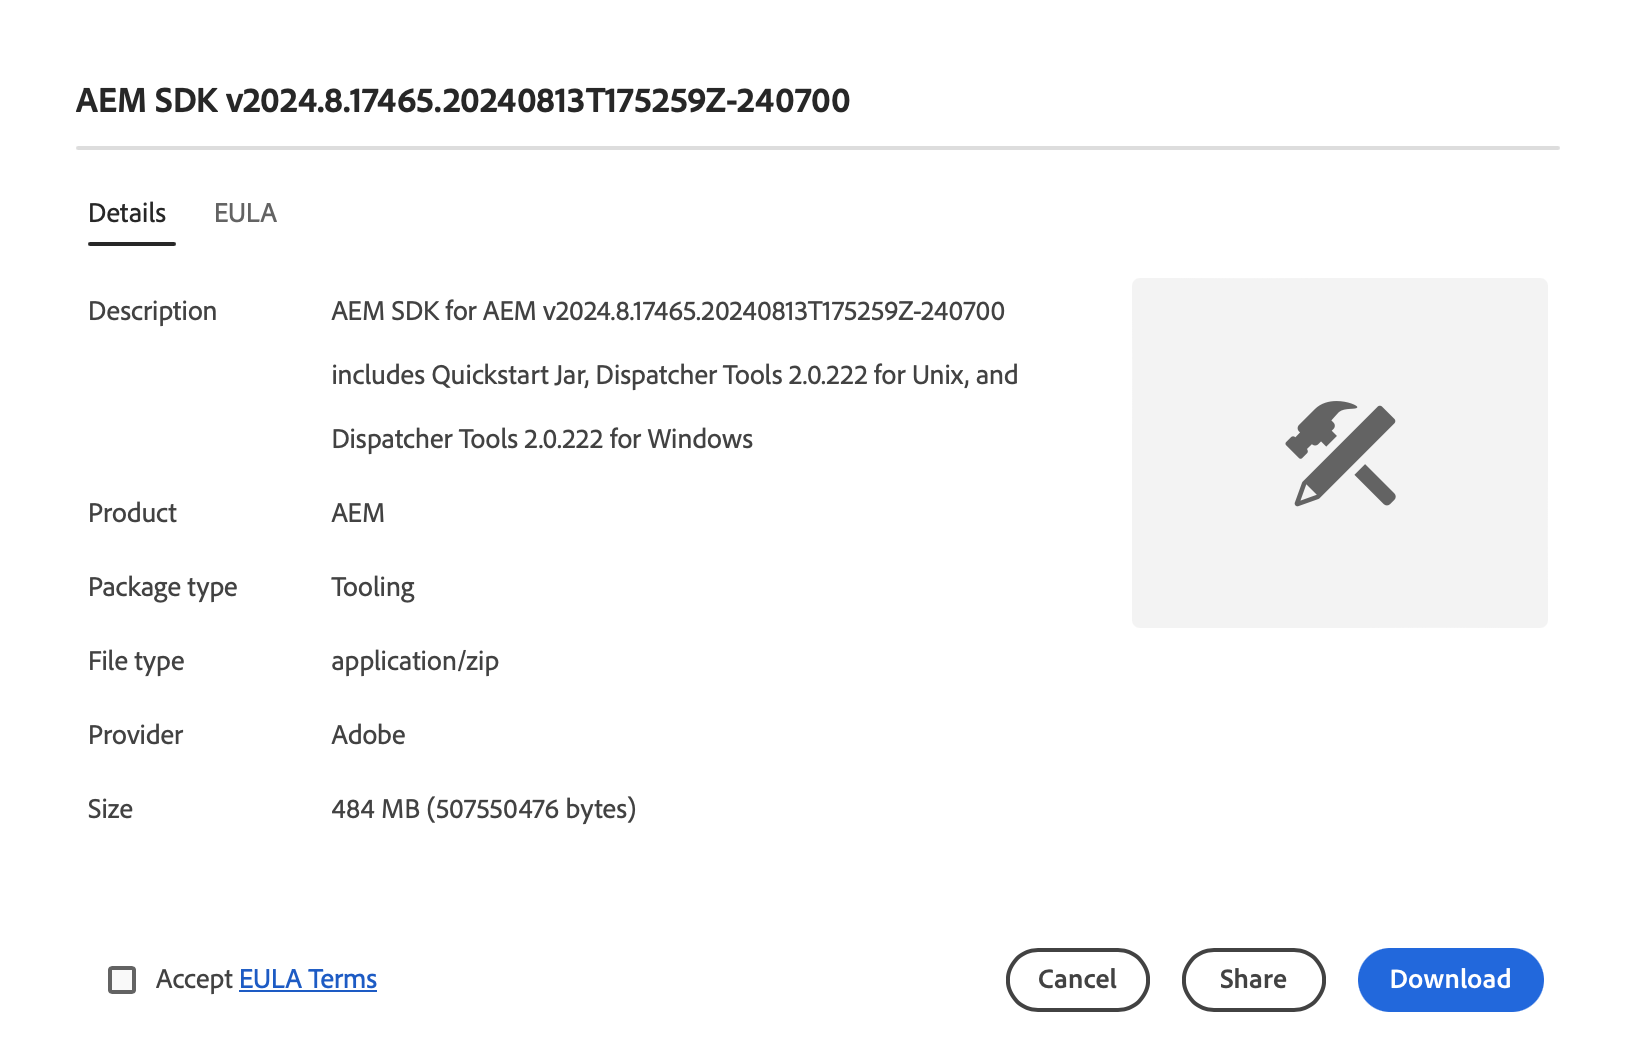
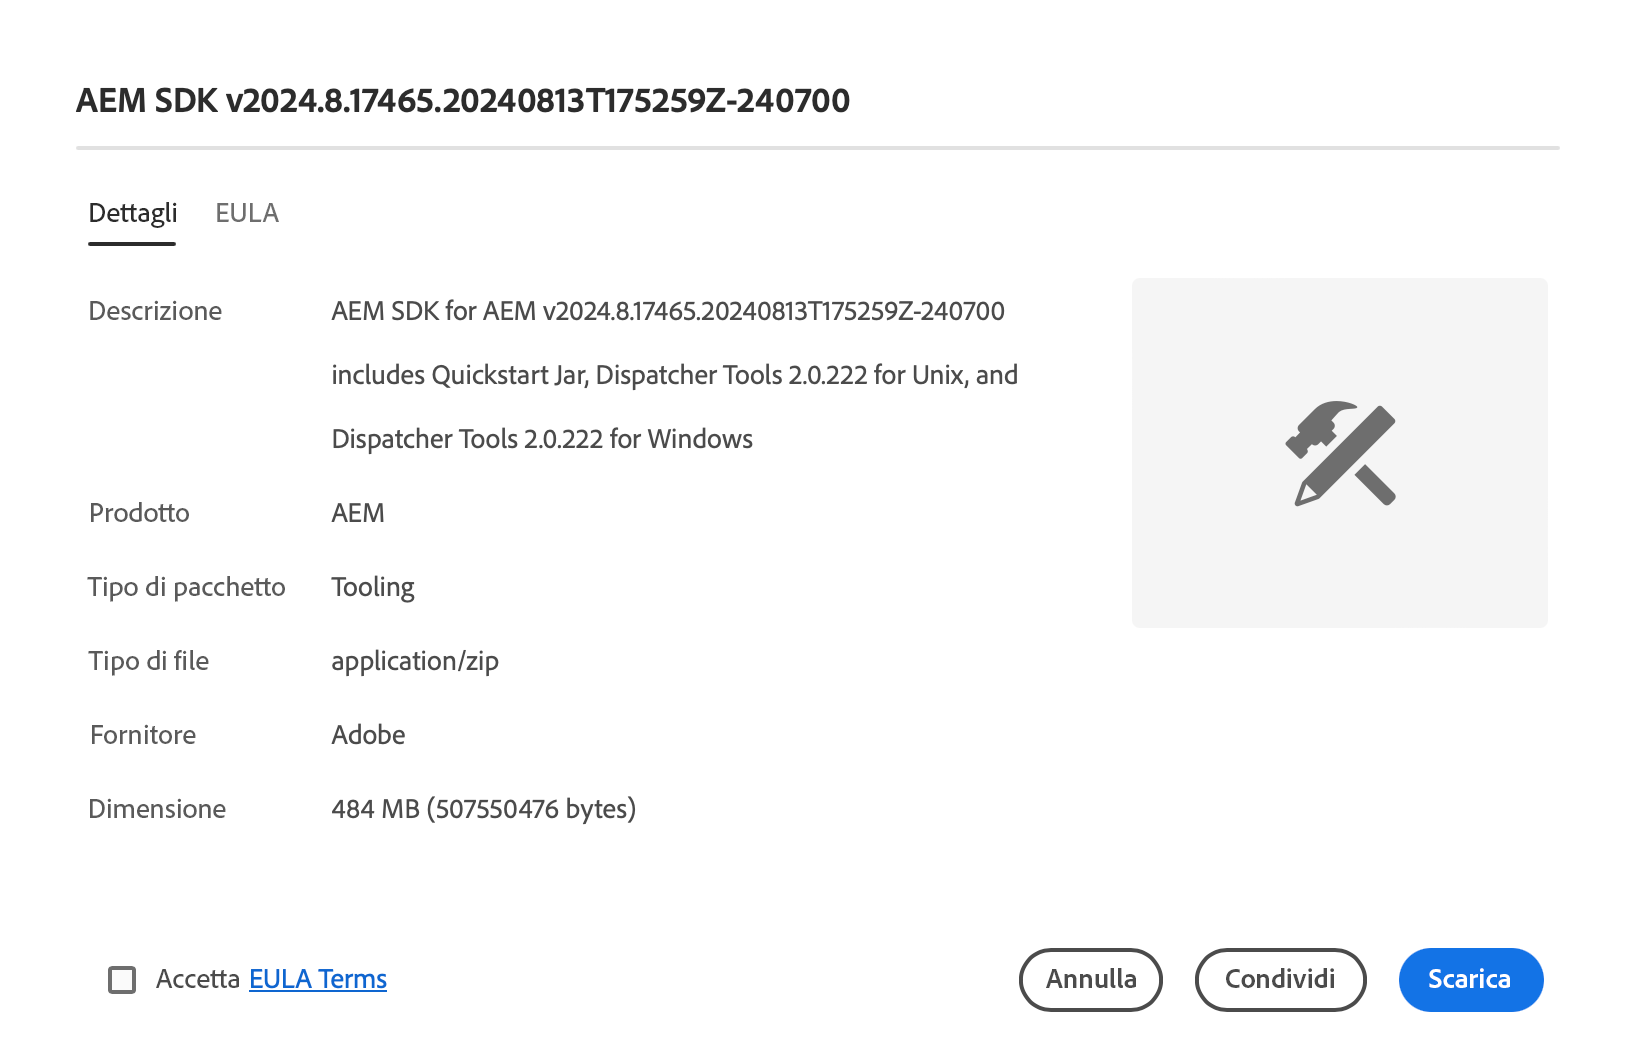
Updated by task 'AUTO_HANDOFF_1724428864251'  Changes for core/source commit https://git.corp.adobe.com/AdobeDocs/experience-cloud.en/commit/ab636c01910e4825bd9168c276b2fe14dead50a4

diff --git a/help/software-distribution/home.md b/help/software-distribution/home.md
@@ -1,72 +1,72 @@
 ---
-title: Distribuzione di software
-description: Scopri come utilizzare la Distribuzione di software per scaricare il software Adobe Experience Cloud.
+title: Distribuzione del software
+description: Scopri come utilizzare la distribuzione del software per scaricare il software Adobe Experience Cloud.
 exl-id: ac559a28-4444-4326-ba92-78afd10ed9ab
 source-git-commit: 6a2ba27cfeae875ab9184760b6d233ef759dd460
-workflow-type: tm+mt
+workflow-type: ht
 source-wordcount: '430'
-ht-degree: 9%
+ht-degree: 100%
 
 ---
 
 
-# Distribuzione di software
+# Distribuzione del software
 
-Scopri come utilizzare la Distribuzione di software per scaricare il software Adobe Experience Cloud.
+Scopri come utilizzare la distribuzione del software per scaricare il software Adobe Experience Cloud.
 
 ## Introduzione
 
-Software Distribution offre un&#39;esperienza efficiente per trovare e scaricare il software Adobe Experience Cloud. I pacchetti software approvati da Adobe e i pacchetti di aziende partner sono disponibili per i seguenti prodotti:
+La distribuzione del software offre un’esperienza efficiente per trovare e scaricare il software Adobe Experience Cloud. I pacchetti software approvati da Adobe e i pacchetti di società partner sono ora disponibili per i seguenti prodotti:
 
-1. **Adobe Experience Manager** - Tutto ciò che riguarda il servizio e la manutenzione, la sicurezza, gli strumenti e altro ancora - per tutte le versioni AEM supportate
-1. **Adobe Experience Manager as a [!UICONTROL Cloud Service]** - [!UICONTROL AEM Cloud SDK], [!UICONTROL AEM Cloud] strumenti di migrazione e altro ancora
-1. **Adobe Campaign** - Tutte le versioni correnti del programma di installazione di [!DNL Campaign] e gli strumenti correlati
-1. **Generale** - Strumenti generali tra cui [!DNL Oracle] JDK per clienti Adobi
+1. **Adobe Experience Manager**: tutto ciò che riguarda servizio e manutenzione, sicurezza, strumenti e molto altro (per tutte le versioni AEM supportate)
+1. **Adobe Experience Manager as a [!UICONTROL Cloud Service]**: [!UICONTROL SDK di AEM Cloud], strumenti di migrazione di [!UICONTROL AEM Cloud] e molto altro.
+1. **Adobe Campaign**: tutte le versioni correnti del programma di installazione di [!DNL Campaign] e gli strumenti correlati.
+1. **Generale**: strumenti di uso generale tra cui JDK di [!DNL Oracle] per clienti Adobe.
 
-L’utilizzo di Software Distribution è semplice come:
+L’utilizzo della distribuzione del software ti permette in modo semplice di:
 
-1. [Accesso alla distribuzione di software](#accessing)
-1. [Selezione del prodotto](#selecting)
-1. [Ricerca del download](#finding)
-1. [Download del software](#downloading)
+1. [Accedere alla distribuzione del software](#accessing)
+1. [Selezionare il prodotto](#selecting)
+1. [Trovare il download](#finding)
+1. [Scaricare il software](#downloading)
 
-## Accesso alla Distribuzione di software {#accessing}
+## Accesso alla distribuzione del software {#accessing}
 
-Per accedere a Software Distribution, vai a [`https://experience.adobe.com/downloads`](https://experience.adobe.com/downloads) e accedi a [!UICONTROL Software Distribution] con il tuo Adobe ID.
+Accedi alla distribuzione del software, passa a [`https://experience.adobe.com/downloads` ](https://experience.adobe.com/downloads) e accedi alla [!UICONTROL Distribuzione del software] con il tuo Adobe ID.
 
-## Selezione del prodotto {#selecting}
+## Selezionare il prodotto {#selecting}
 
-L’interfaccia utente di Software Distribution è organizzata per prodotto, come illustrato nel menu.
+L’interfaccia utente della distribuzione del software è organizzata per prodotto, come illustrato nel menu.
 
 ![Menu organizzato per prodotti](assets/menu.png)
 
-Si accede alla scheda **Generale**, in cui è possibile trovare i download di software generici.
+Vieni indirizzato alla scheda **Generale**, in cui è possibile trovare i download di software di utilizzo generico.
 
 Tocca o fai clic sul prodotto nel menu per il quale desideri scaricare il software. Possono essere scaricati solo i prodotti per i quali la tua organizzazione ha concesso la licenza.
 
-## Ricerca del download {#finding}
+## Trovare il download {#finding}
 
 Dopo aver selezionato la scheda prodotto desiderata, verranno visualizzati tutti i download correlati. Utilizza i filtri di ricerca nel pannello a sinistra per trovare rapidamente il download. Le opzioni di filtro variano a seconda del prodotto.
 
 ![Filtri](assets/filters.png)
 
-## Download del software {#downloading}
+## Scaricare il software {#downloading}
 
-Toccando o facendo clic su un download visualizzato, si apre una finestra di dialogo contenente ulteriori informazioni sul download. Ad esempio, puoi visualizzare una descrizione, il nome del fornitore e il contratto di licenza.
+Toccando o facendo clic su un download visualizzato, si apre una finestra di dialogo contenente ulteriori informazioni sul download. Ad esempio, puoi visualizzare una descrizione, il nome del fornitore e l Accordo di licenza con l&#39;utente finale (EULA).
 
-![Dettagli download](assets/details.png)
+![Scarica i dettagli](assets/details.png)
 
-Per abilitare il pulsante **Scarica**, è necessario accettare l&#39;EULA selezionando **Accetta termini EULA**.
+Per abilitare il pulsante **Scarica**, è necessario accettare l’EULA selezionando **Accetta termini EULA**.
 
-Puoi anche condividere un collegamento a quel particolare download toccando o facendo clic su **Condividi** per copiare l&#39;URL.
+Puoi anche condividere un collegamento a quel particolare download toccando o facendo clic su **Condividi** per copiare l’URL.
 
 ## Condivisione pacchetti {#package-share}
 
-Nel mese di giugno 2020, [!UICONTROL Distribuzione software] ha sostituito [!UICONTROL Condivisione pacchetti] per AEM e [!DNL Neolane] per [!DNL Campaign]. Un’interfaccia utente intuitiva, una ricerca semplificata e una velocità di download notevolmente migliorata rendono il download di pacchetti software per prodotti di Experience Cloud un’esperienza migliore utilizzando Software Distribution.
+Nel mese di giugno 2020, la [!UICONTROL Distribuzione del software] ha sostituito [!UICONTROL Condivisione pacchetti] per AEM e [!DNL Neolane] per [!DNL Campaign]. Grazie a un’interfaccia utente intuitiva, una ricerca semplificata e una velocità di download notevolmente migliorata, il download dei pacchetti software per i prodotti Experience Cloud è un’esperienza utente straordinaria utilizzando la distribuzione del software.
 
 >[!IMPORTANT]
 >
->Le credenziali di accesso da [!UICONTROL Condivisione pacchetti] o [!DNL Neolane] non funzioneranno per [!UICONTROL Distribuzione software], che fornisce le funzionalità necessarie per accedere con gli standard di sicurezza Adobe. Se non conosci il tuo Adobe ID, contatta un amministratore del supporto all’interno della tua organizzazione.
+>Le credenziali per l’accesso a [!UICONTROL Condivisione pacchetti] o [!DNL Neolane] non saranno valide per la [!UICONTROL Distribuzione del software], che offre la possibilità di accedere con gli standard di sicurezza di Adobe. Se non conosci il tuo Adobe ID, contatta l’amministratore del supporto all’interno della tua organizzazione.
 
 >[!NOTE]
 >
